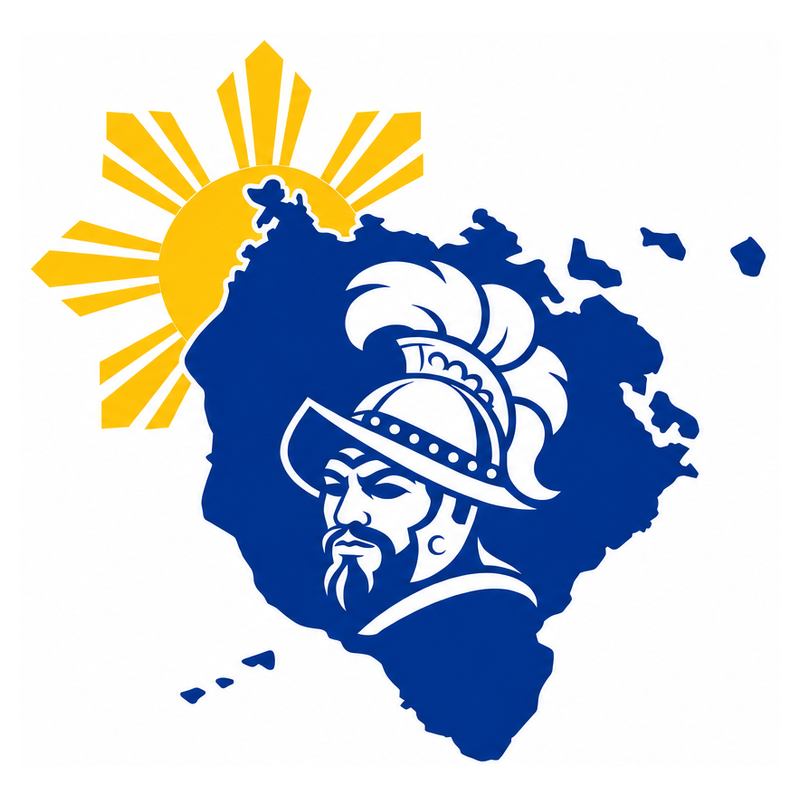
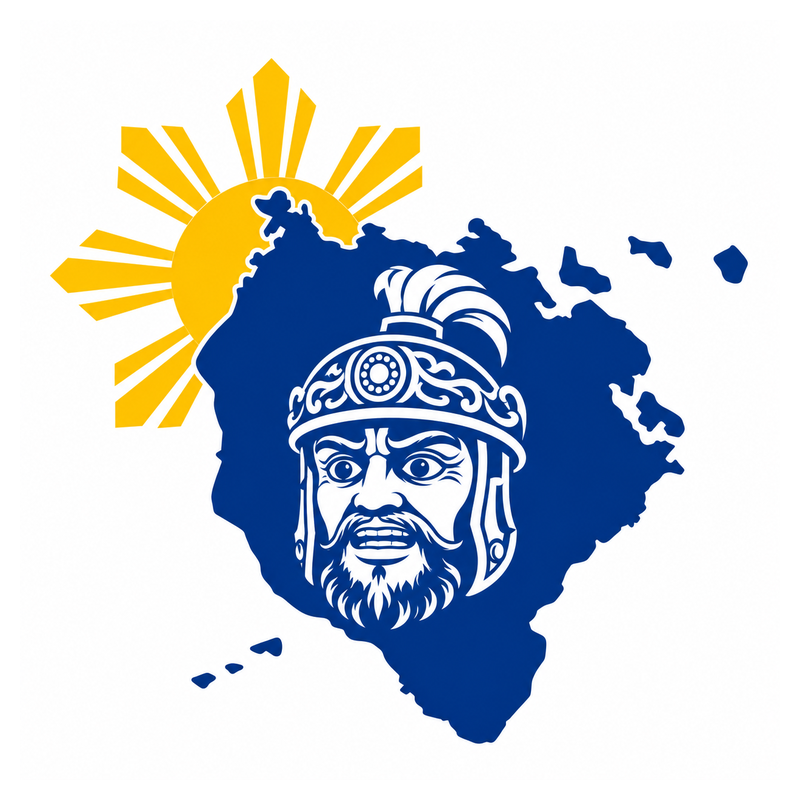
Apply approved Morion emblem and add social profile artwork

Changed region(s): [[0.0312, 0.0312, 0.9688, 0.9688], [0.2812, 0.6562, 0.3438, 0.75]]

diff --git a/scripts/export-approved-logo.py b/scripts/export-approved-logo.py
@@ -2,21 +2,21 @@
 """Export the approved logo for the website. Requires Pillow.
 
 Run: python scripts/export-approved-logo.py
-The crop excludes only the preview's wordmark and surrounding whitespace.
+The approved square artwork is fitted into each export without cropping.
 The artwork and its white background are preserved without recoloring.
 """
 from pathlib import Path
 from PIL import Image, ImageOps
 
 ROOT = Path(__file__).resolve().parent.parent
-SOURCE = ROOT / 'design/brand/approved-logo.png'
+SOURCE = ROOT / 'design/brand/morion-reference-preview.png'
 BRAND = ROOT / 'src/assets/brand'
 PUBLIC = ROOT / 'public'
 
 source = Image.open(SOURCE).convert('RGB')
-# Approved 1536 x 1024 board: retain the full sun, island and offshore islets.
-assert source.size == (1536, 1024), 'Recheck crop for a different source size'
-emblem = source.crop((290, 30, 1130, 840))
+# Retain the full approved sun, island, offshore islets and reference Morion.
+assert source.width == source.height, 'Expected the approved square artwork'
+emblem = source
 
 def square(size: int) -> Image.Image:
     padding = max(1, round(size * 0.025))

diff --git a/design/facebook/generation-prompts.md b/design/facebook/generation-prompts.md
@@ -1,0 +1,13 @@
+Created with the built-in image generation tool using the supplied logo reference.
+
+## Profile picture prompt
+
+Use case: logo-brand. Asset type: Facebook profile picture, square 1024x1024.
+Input image: supplied BetterMarinduque logo is the identity reference.
+Create a polished upload-ready square profile image using the supplied logo faithfully: royal blue Marinduque island silhouette, white Morion helmeted face inside, golden Philippine sun behind the upper left. Preserve the reference island shape, face character, helmet, sun design, blue/gold/white identity. Clean tiny rough edge artifacts. Center the entire emblem on an opaque warm white background. Keep the emblem large and legible but fully inside a centered circular safe area, with comfortable 12% outer padding so sun rays and island tips survive a circular crop. Crisp smooth flat graphic edges, restrained original tonal depth, professional local community brand. No text, no extra symbols, no border, no mockup, no watermark. Final art only.
+
+## Cover picture prompt
+
+Use case: ads-marketing. Asset type: Facebook cover image, wide panoramic 2.63:1 ratio, ideally 1640x624.
+Input image: supplied BetterMarinduque logo is the identity reference.
+Create a finished polished cover image matching the reference brand. Opaque warm ivory background, royal blue, golden yellow, and white. Faithfully reproduce the reference emblem (blue Marinduque island silhouette with white Morion helmeted face and golden Philippine sun), clean the rough pixel edges. Place this emblem in the left-middle portion around 32% across, sized to stay entirely within the central 70% height. Place exact text "BetterMarinduque" prominently to its right, in bold clean modern royal-blue sans serif type, impeccably spelled, comfortably inside the central 65% width safe region. Use one subtle golden underline accent. Very subtle broad blue/gold flowing shapes at far right and bottom edges give a welcoming civic identity without clutter. Keep bottom-left clear for profile photo overlap. Keep logo and wordmark in the center-height safe region with generous upper and lower margins for mobile crops. Strong refined visual hierarchy and generous whitespace. No other words, no slogan, no invented landmarks, no UI, no mockup, no watermark. Export the single full-bleed rectangular artwork.

diff --git a/design/facebook/cover-v2-prompt.md b/design/facebook/cover-v2-prompt.md
@@ -1,0 +1,12 @@
+Created with the built-in image generation tool. BetterGov public branding inspiration: https://about.bettergov.ph/ . Its social cover image could not be loaded; this is an original style interpretation.
+
+Use case: ads-marketing.
+Asset type: finished Facebook Page cover for BetterMarinduque, wide panoramic 2.63:1 composition, ideally 2033x773.
+Input image: identity reference only, preserve the supplied Marinduque silhouette, Morion helmeted face, and golden Philippine sun. Remove rough pixel artifacts but do not redesign the emblem.
+Primary request: redesign the cover in a contemporary Philippine open-source civic-tech visual language inspired by BetterGov.ph and the BetterLGU community. This is an original BetterMarinduque cover, not BetterGov's own banner.
+Art direction: strong saturated royal-blue full-bleed background, refined very subtle blue tonal gradient, oversized confident white modern sans-serif typography, disciplined editorial grid, generous spacing. Minimal golden yellow accents echo the sun. Restrained fine dotted grid texture at far edges evokes open data. No cream background, swoosh, gold curved underline, metallic effects, 3D or governmental seal treatment.
+Composition: centered horizontal lockup with the faithful emblem at 26% across and 46% down. Add a thin ivory contour around the dark-blue island so it reads against the blue background; retain all white face details and gold sun. Right of emblem at 42% across place the exact headline "BetterMarinduque" large and bold, white. Under headline put two small white text lines exactly:
+"Community-run civic information"
+"& transparency portal"
+Below that a short gold horizontal rule then the smaller white line "Part of the BetterLGU movement".
+Keep the entire emblem and all lettering within central 70% width and central 62% height for crop safety. Keep bottom-left free for profile overlap. High-quality crisp brand design, strong legibility. No other text, no URL, no BetterGov logo, no implied official government endorsement. Output only the flat finished banner artwork.

diff --git a/design/facebook/profile-v2-prompt.md b/design/facebook/profile-v2-prompt.md
@@ -1,0 +1,9 @@
+Created with the built-in image generation tool.
+
+Use case: logo-brand. Edit target: supplied BetterMarinduque Facebook profile picture.
+Create an updated square Facebook profile picture. Replace the ivory textured background with perfectly solid opaque pure white #FFFFFF, no texture, gradient or shadows. Keep the same blue Marinduque silhouette, white Morion face and golden Philippine sun identity faithfully, with clean crisp edges.
+Add the brand name on exactly TWO centered lines:
+"Better"
+"Marinduque"
+Make these words BIG, heavy bold royal-blue modern sans-serif, with tight attractive line spacing, perfectly spelled and highly legible at avatar size. Position the emblem above and the two-line wordmark below in a balanced compact centered vertical lockup. Let the emblem fill the upper roughly 60% and wordmark the lower 25%. The word Marinduque should occupy almost the full available safe width; Better may be slightly larger in point size to create strong hierarchy. Maximize the overall logo-and-text lockup size while keeping everything inside a centered circular crop safe area: leave sufficient corner clearance and bottom clearance, no clipping of sun rays, text or island tips. White background continues to all four edges. Retain emblem details and colors; no additional graphics, slogans, border, mockup, watermark. Output single finished square artwork.
+Critical layout correction: fit the entire design inside a centered invisible circle, not just the square. The lower word Marinduque must be centered at 76% canvas height and occupy at most 72% canvas width, with all lettering ending above 82% canvas height. Better on line one at 65% height. Emblem fits within x=23–77%, y=9–59%. All external background must be solid pure RGB 255,255,255 with absolutely no texture. Use bold lettering filling the specified safe area. No actual circle outline.

diff --git a/design/brand/README.md b/design/brand/README.md
@@ -1,8 +1,10 @@
 # Approved BetterMarinduque logo
 
-`approved-logo.png` is the user-approved concept: the larger Philippine sun
-behind the upper-left of Marinduque, with a white side-view Morion inside.
-It was created with the built-in imagegen tool and approved in conversation.
+`morion-reference-preview.png` is the current user-approved artwork: the gold
+Philippine sun behind the upper-left of Marinduque, with a white Morion mask
+inspired by the central figure in the user's `images.jpeg` reference. It was
+created with the built-in imagegen tool and approved in conversation.
+`approved-logo.png` preserves the earlier side-view concept.
 
 The production exports preserve the approved artwork on white. Transparent
 imagegen exports introduced edge artifacts and were not used.
@@ -26,12 +28,11 @@ Outputs:
 - `public/apple-touch-icon.png`
 - `public/icon-512.png`
 
-The crop only removes the presentation wordmark and outside whitespace. It does
-not redraw the coastline, Morion, or sun. The approved concept remains a raster
+Exports fit the full square artwork with a small white margin without cropping
+or redrawing the coastline, Morion, or sun. The approved concept remains a raster
 identity, not a survey-grade geographic map.
 
-Final approved generation instruction: enlarge the gold Philippine flag sun
-approximately 25 percent, keep it behind the upper-left of the blue island,
-adjust its overlap for balance, and preserve the map, offshore islets, white
-side-view Morion, BetterGov blue, and wordmark from the previous revision.
-Meaning: local heritage looking toward hope and progress.
+Final approved generation instruction: replace the generic Roman soldier with
+a white Morion mask inspired by the reference's wide eyes, curled moustache,
+rounded beard and ornate helmet; preserve the blue island, offshore islets,
+gold Philippine sun and white background.

diff --git a/design/facebook/profile-v3-prompt.md b/design/facebook/profile-v3-prompt.md
@@ -1,0 +1,10 @@
+Created with the built-in image generation tool.
+
+Use case: logo-brand. Edit the attached BetterMarinduque profile picture into an upload-ready square Facebook avatar.
+USER REQUIREMENTS: blue background, white logo and white words; all artwork must fit comfortably inside Facebook's circular crop.
+Background: perfectly flat solid royal blue #0638AE, full bleed square, no gradient or texture.
+Emblem: preserve the Marinduque island silhouette, helmeted Morion face, Philippine sun and small islands of the reference, but render ALL emblem artwork in WHITE and blue negative space only. Change the golden sun to WHITE. Use a white island silhouette with the Morion carved in blue negative space and white detail as needed; preserve recognizable face and helmet. Two colors ONLY: royal blue and white. No gold.
+Typography: exact two lines, both white, bold modern sans-serif:
+Better
+Marinduque
+Layout is CRITICAL: substantially reduce and reposition the reference layout so every part of the emblem and BOTH words fit in an INVISIBLE centered circle with a comfortable margin. Square canvas 1024x1024. Entire emblem bounding box x=290 to 735, y=160 to 605. "Better" centered in a bounding box x=300 to 724, y=625 to 715. "Marinduque" centered in a bounding box x=205 to 819, y=735 to 805. This leaves generous blue margin below the lettering and on all sides and ensures the long bottom line stays entirely within the circle. Word Marinduque must be no wider than 60% of the canvas. Treat these coordinate proportions as hard constraints. Keep bold type big within those boxes, both words spelled perfectly. No overlap, no clipped details. Do not enlarge to fill the square! Background remains blue outside the imaginary circle. No actual circle outline or border. No additional copy, watermark, 3D effects or mockup. Finished flat square image only.

diff --git a/design/facebook/profile-v4-prompt.md b/design/facebook/profile-v4-prompt.md
@@ -1,0 +1,3 @@
+Created with the built-in imagegen tool.
+
+Use case: precise-object-edit. Create an updated upload-ready square BetterMarinduque Facebook profile picture. Image 1 is the existing profile picture EDIT TARGET; Image 2 is the approved new Morion emblem SUBJECT REFERENCE. Keep image 1's royal blue background, white emblem, exact bold white text on two centered lines "Better" and "Marinduque", spacing and circular-crop-safe layout. Replace only the old side-view Roman soldier within the island with the new front-facing Morion mask from image 2, closely preserving its wide eyes, curled moustache, beard and ornate helmet. Adapt the new face to the white island with blue negative-space style of image 1. Use only royal blue #0638AE and white; sun stays WHITE. Preserve island and offshore islets and large sun. All logo and text must fit comfortably within an invisible centered circle with generous padding: emblem within x29%-71%, y15%-59%; Better within x30%-70%, y61%-70%; Marinduque within x21%-79%, y72%-79%. No visible circle or border, no clipping, no extra text or symbols, no gradient, no texture. One polished square image.

diff --git a/design/facebook/profile-v5-prompt.md b/design/facebook/profile-v5-prompt.md
@@ -1,0 +1,3 @@
+Created with the built-in imagegen tool.
+
+Use case: precise-object-edit. Edit this BetterMarinduque profile picture. Change ONLY the white Philippine sun behind the upper-left of the island to rich golden yellow #FFC400, including its visible circular disk and every sun ray. Preserve everything else unchanged: royal blue background, white island and offshore islands, detailed blue-and-white front-facing Morion mask, exact white text Better and Marinduque, font, spacing, size, square canvas and circle-safe margins. Keep crisp clean logo edges. No additional changes.
